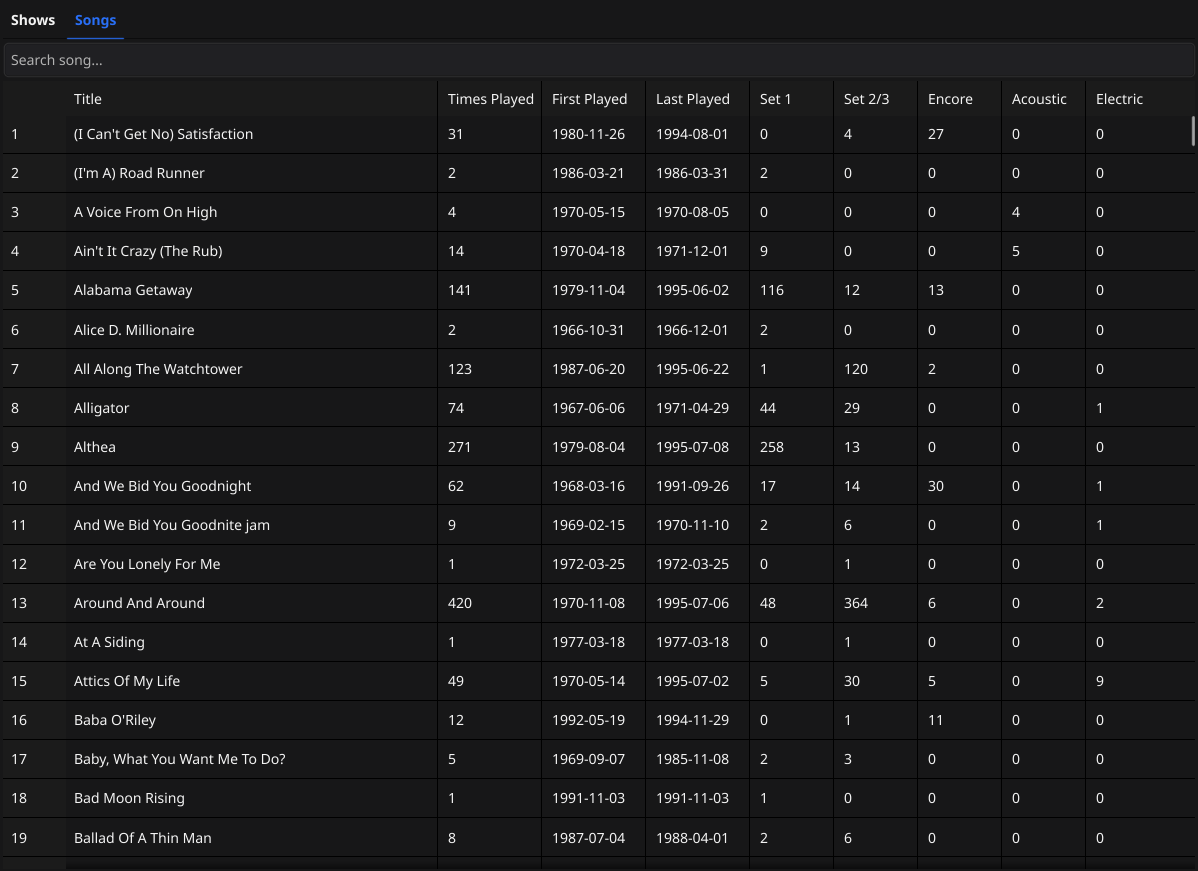
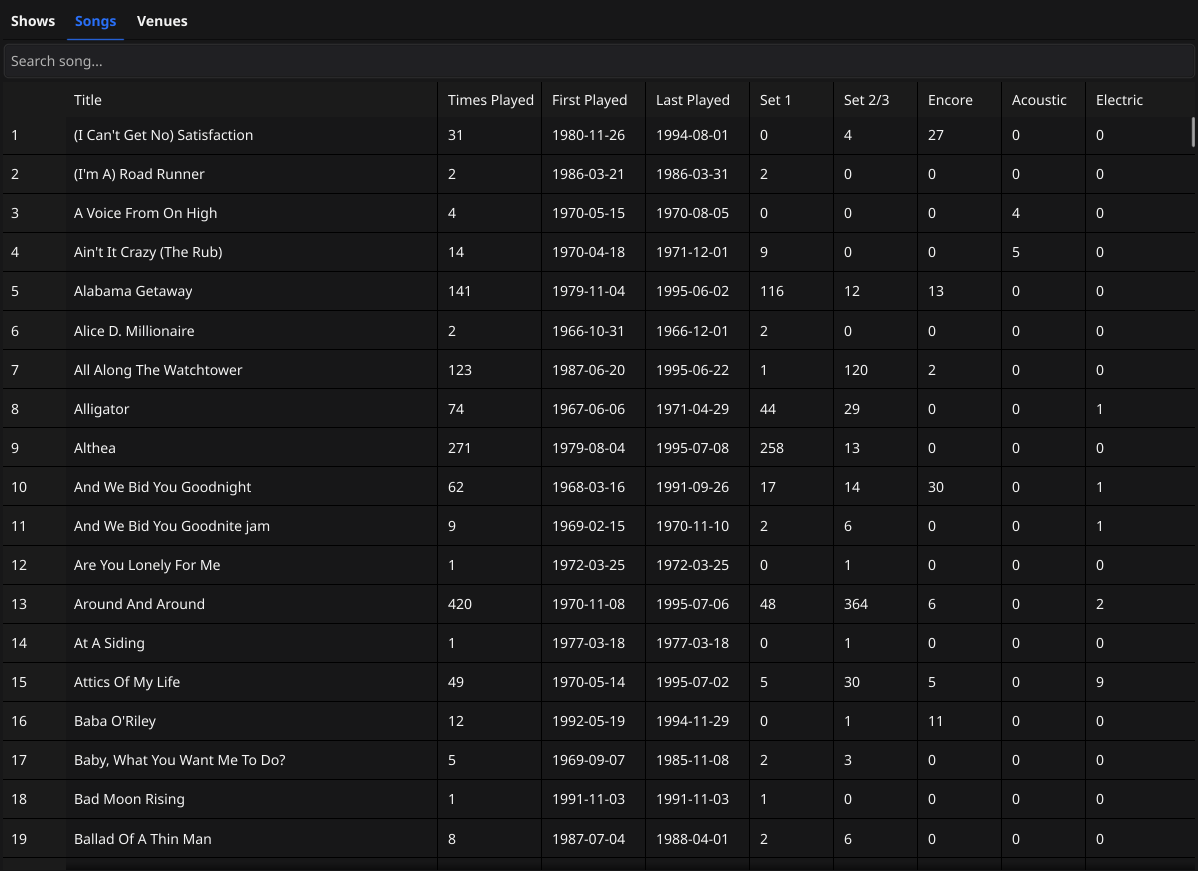
Add Today in GD History button to Fyne GUI

diff --git a/cmd/gui/ui.go b/cmd/gui/ui.go
@@ -100,6 +100,7 @@ func (v *venuesTab) buildVenuesTab() fyne.CanvasObject {
 
 func (s *showsTab) buildShowsSearchPanel() fyne.CanvasObject {
 	randShowBtn := widget.NewButton("Random Show", s.randomShow)
+	todayBtn := widget.NewButton("Today in GD History", s.showsFromTodaysDate)
 
 	// By ID
 	s.idEntry = widget.NewEntry()
@@ -171,6 +172,8 @@ func (s *showsTab) buildShowsSearchPanel() fyne.CanvasObject {
 	return container.NewVBox(
 		layout.NewSpacer(),
 		randShowBtn,
+		layout.NewSpacer(),
+		todayBtn,
 		layout.NewSpacer(),
 		s.idEntry, idBtn,
 		layout.NewSpacer(),

diff --git a/cmd/gui/api.go b/cmd/gui/api.go
@@ -108,6 +108,10 @@ func searchByYear(year string) (*showPage, error) {
 	return fetchPage[showPage](absoluteURL("/shows?year=") + url.QueryEscape(year))
 }
 
+func getShowsFromTodaysDate() (*showPage, error) {
+	return fetchPage[showPage](absoluteURL("/shows/today"))
+}
+
 // getShowsByDate returns every show on a YYY-MM-DD date (some dates have 2 shows)
 func getShowsByDate(date string) ([]internal.ShowResponse, error) {
 	shows, err := getJSON[[]internal.ShowResponse](absoluteURL("/shows/") + url.PathEscape(date))

diff --git a/cmd/gui/app.go b/cmd/gui/app.go
@@ -145,6 +145,10 @@ func (s *showsTab) searchShowsByDate(date string) {
 	async(s.app, func() ([]internal.ShowResponse, error) { return getShowsByDate(date) }, s.showShowDetails)
 }
 
+func (s *showsTab) showsFromTodaysDate() {
+	async(s.app, func() (*showPage, error) { return getShowsFromTodaysDate() }, s.setResults)
+}
+
 func (s *showsTab) searchByVenue(venue string) {
 	async(s.app, func() (*showPage, error) { return searchVenues(venue) }, s.setResults)
 	// s.venueSelect.SetText("")
